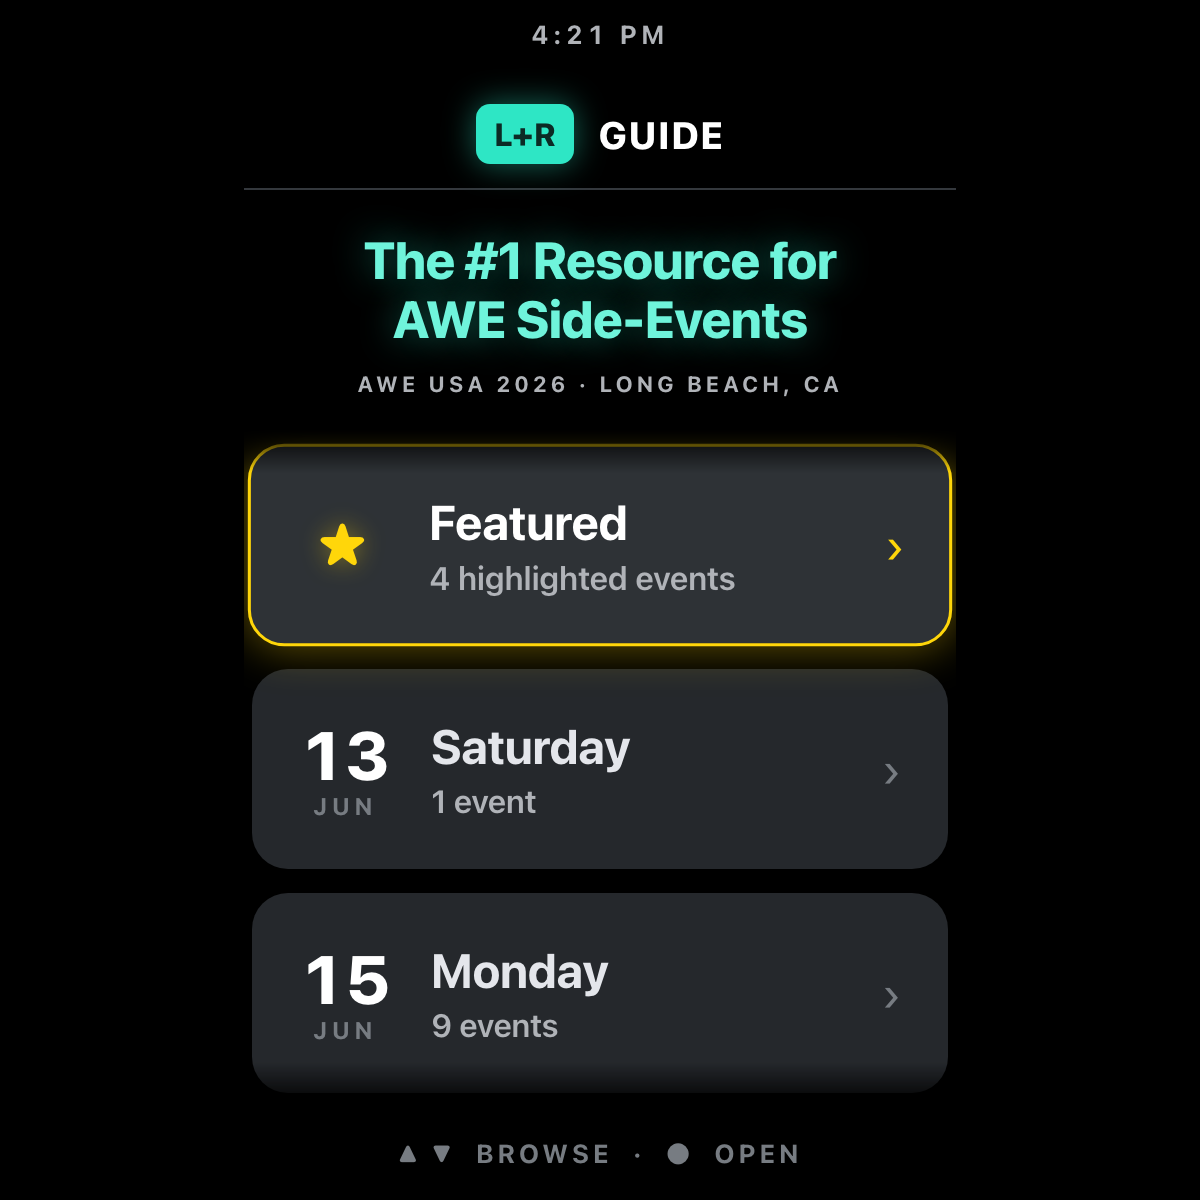
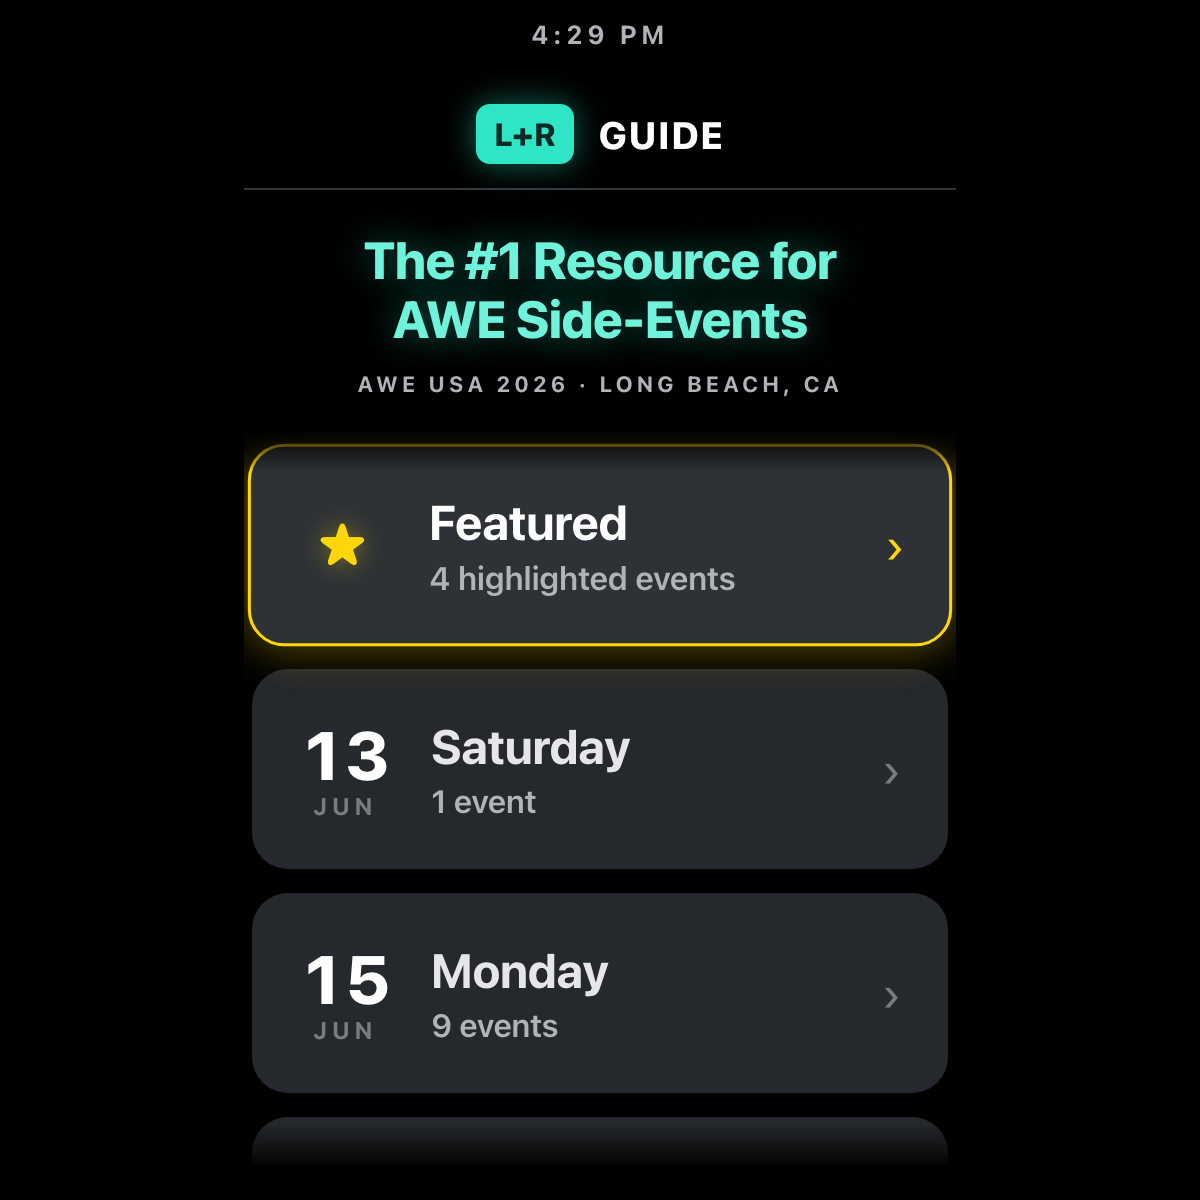
awe-events: smaller event titles, remove nav footers

Changed region(s): [[0.2158, 0.8942, 0.8017, 0.9867]]

diff --git a/awe-events/styles.css b/awe-events/styles.css
@@ -256,16 +256,6 @@ html, body {
 .day-item.focused.is-featured { border-color: var(--gold); box-shadow: 0 0 22px var(--gold-glow); }
 .day-item.focused.is-featured .di-arrow { color: var(--gold); }
 
-.home-foot, .list-foot, .detail-foot {
-  flex-shrink: 0;
-  text-align: center;
-  padding-top: var(--s4);
-  font-size: 13px;
-  font-weight: 700;
-  letter-spacing: 0.14em;
-  color: var(--text-4);
-}
-
 /* ============================================================
    LIST
    ============================================================ */
@@ -409,9 +399,9 @@ html, body {
   flex: 1 1 auto;
 }
 .event-item .ev-name {
-  font-size: 25px;
+  font-size: 20px;
   font-weight: 700;
-  line-height: 1.22;
+  line-height: 1.28;
   letter-spacing: -0.01em;
   color: var(--text-2);
   overflow-wrap: break-word;

diff --git a/awe-events/index.html b/awe-events/index.html
@@ -28,8 +28,6 @@
     </div>
 
     <ul class="day-list" id="day-list"><!-- populated by JS --></ul>
-
-    <footer class="home-foot">▲ ▼ &nbsp;BROWSE&nbsp;&nbsp;·&nbsp;&nbsp;● &nbsp;OPEN</footer>
   </section>
 
   <!-- ===========================================================
@@ -45,8 +43,6 @@
     <div class="event-feed-wrap">
       <ul class="event-feed" id="event-feed"><!-- populated by JS --></ul>
     </div>
-
-    <footer class="list-foot">▲ ▼ &nbsp;SELECT&nbsp;&nbsp;·&nbsp;&nbsp;● &nbsp;DETAILS&nbsp;&nbsp;·&nbsp;&nbsp;◀ &nbsp;BACK</footer>
   </section>
 
   <!-- ===========================================================
@@ -80,8 +76,6 @@
 
       <div class="detail-tag" id="detail-tag">FREE · RSVP</div>
     </div>
-
-    <footer class="detail-foot">◀ &nbsp;BACK TO LIST</footer>
   </section>
 
 </div>